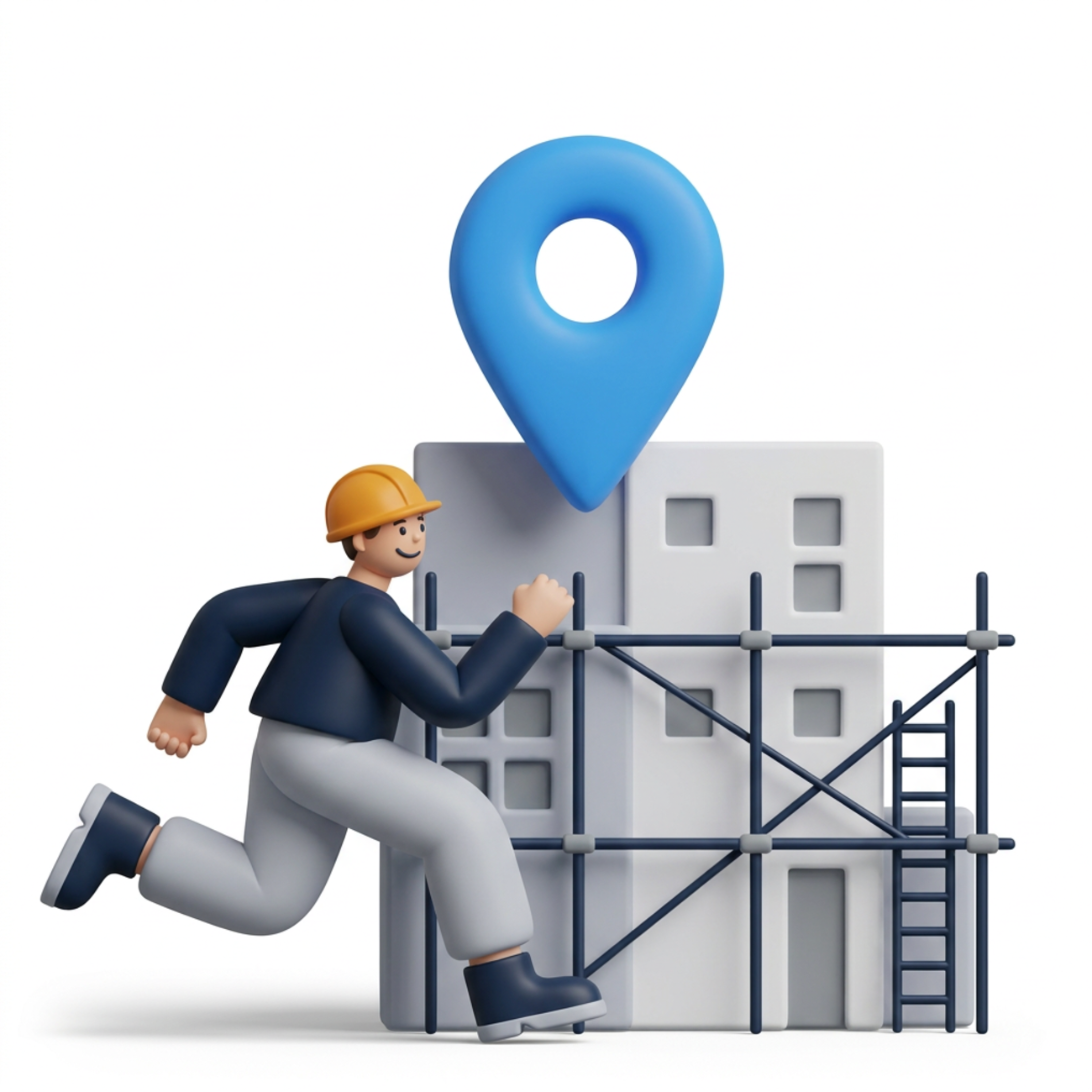
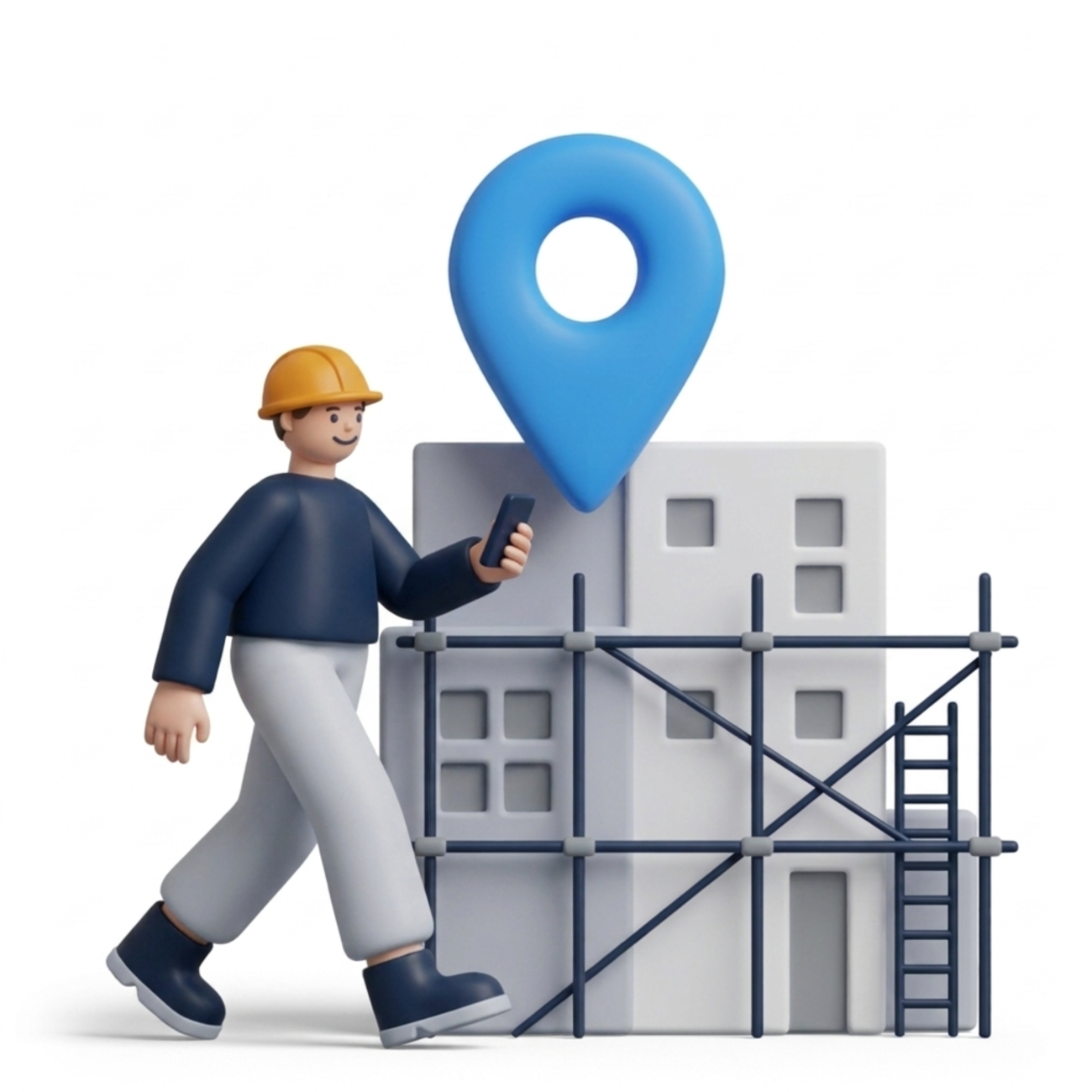
docs(deck): Tidrapportering step 1 — worker walks to the site (not running)
Claude-Session: https://claude.ai/code/session_01BHy9U5JeQwZEhSA71ePFpu

diff --git a/docs/presentations/tidrapportering/slides/flode.html b/docs/presentations/tidrapportering/slides/flode.html
@@ -5,7 +5,7 @@
 </div>
 <div style="display:flex;gap:24px;align-items:stretch">
 <div style="display:flex;flex-direction:column;gap:16px;width:544px;padding:20px;background:#FFFFFF;border:1px solid #E1EAF3;border-radius:32px;box-shadow:0 1px 0 rgba(15,34,54,.02)">
-<img src="/_blob/2de4c3d52cfdcf8b2325f2278a97bbf1" alt="Arbetaren kommer till bygget" style="width:504px;height:380px;object-fit:contain">
+<img src="/_blob/6574cc70c30997455c8d6afe2693b9ff" alt="Arbetaren går till bygget" style="width:504px;height:380px;object-fit:contain">
 <div style="display:flex;gap:14px;align-items:center;margin-top:8px"><p style="width:40px;height:40px;flex:none;border-radius:50%;background:rgba(69,179,107,.14);color:#45B36B;font-size:22px;font-weight:500;line-height:40px;text-align:center">1</p><p style="font-size:28px;font-weight:600;letter-spacing:-0.015em;line-height:1.15;white-space:nowrap;color:#0A1828">Välj projekt</p></div>
 <p style="font-size:22px;line-height:1.4;color:#94A8BC">Appen&nbsp;›&nbsp;Projekt</p>
 <p style="font-size:22px;line-height:1.5;color:#5B7591">Arbetaren väljer projektet i appen när hen kommer till platsen.</p>
